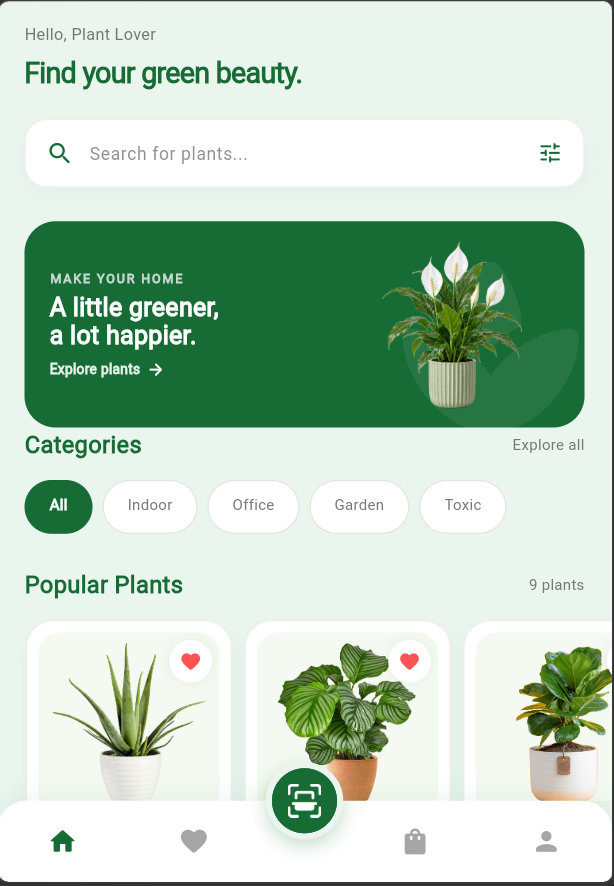
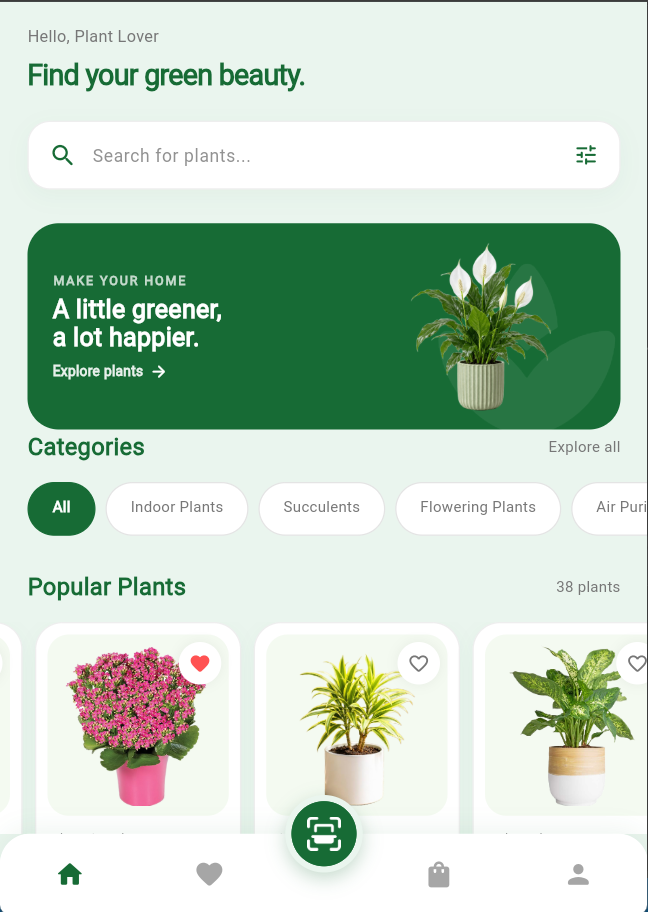
screenshot changes

diff --git a/lib/main.dart b/lib/main.dart
@@ -20,3 +20,5 @@ class MyApp extends StatelessWidget {
     );
   }
 }
+
+// run : flutter run -d chrome --web-port 2350
